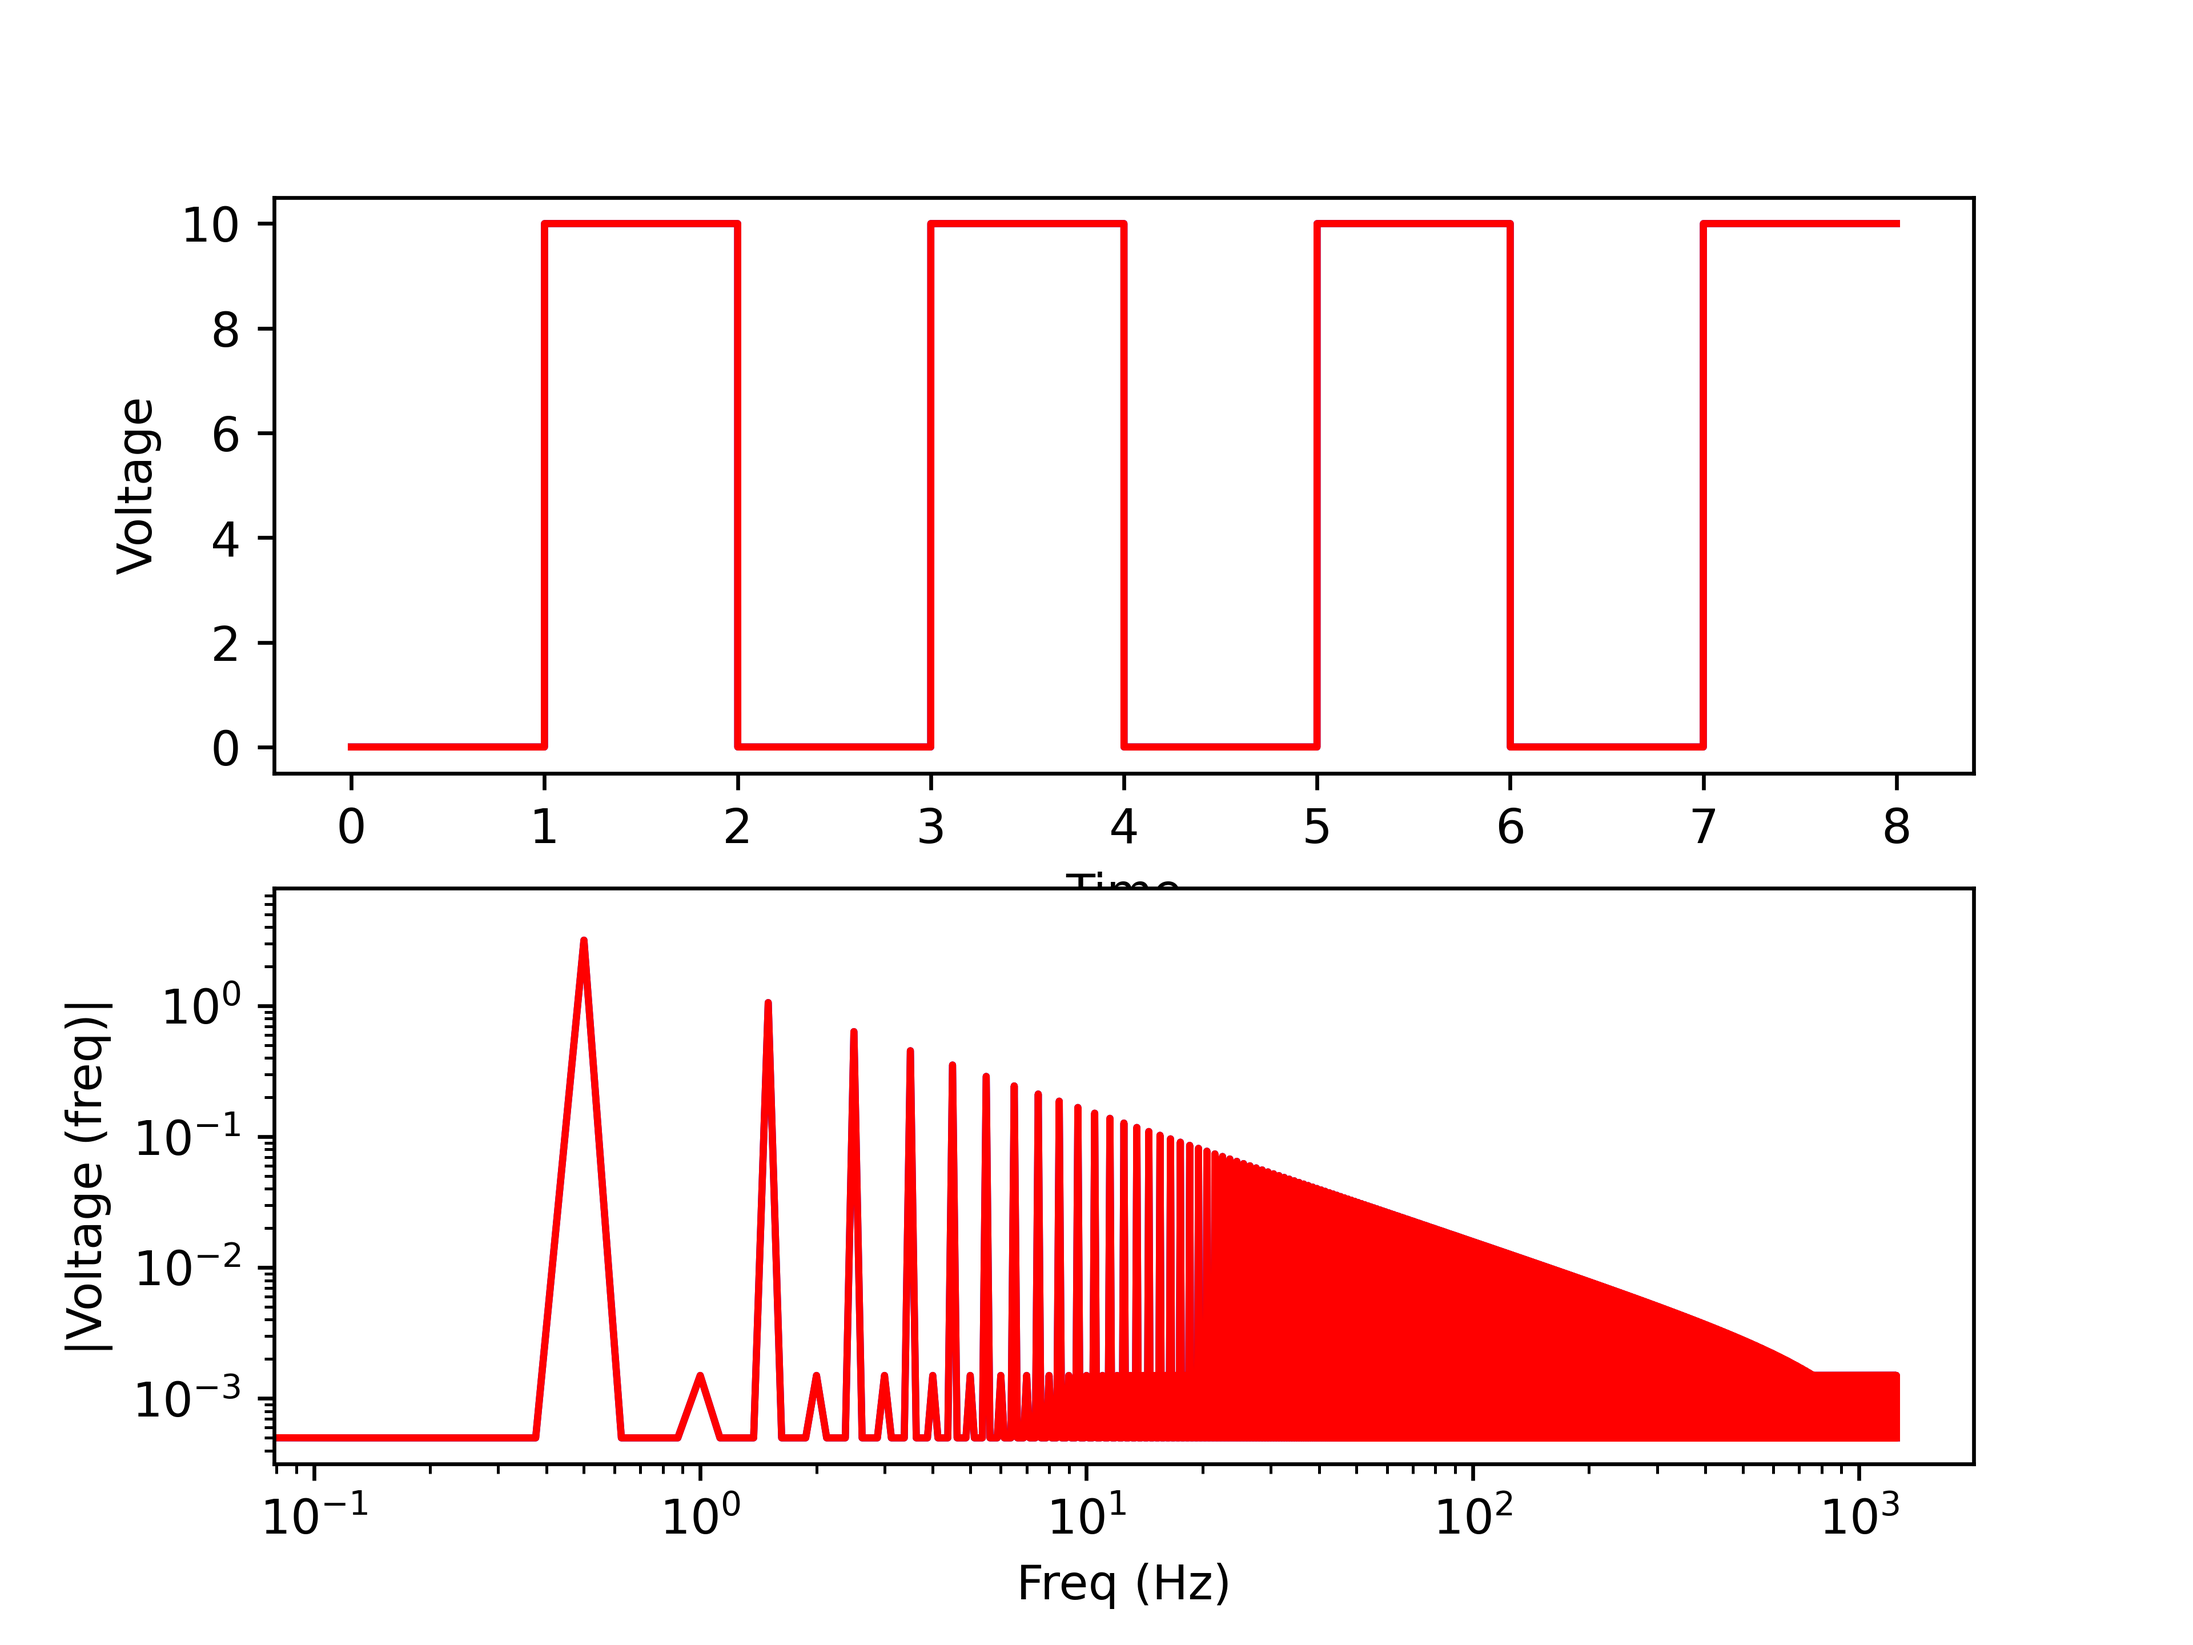
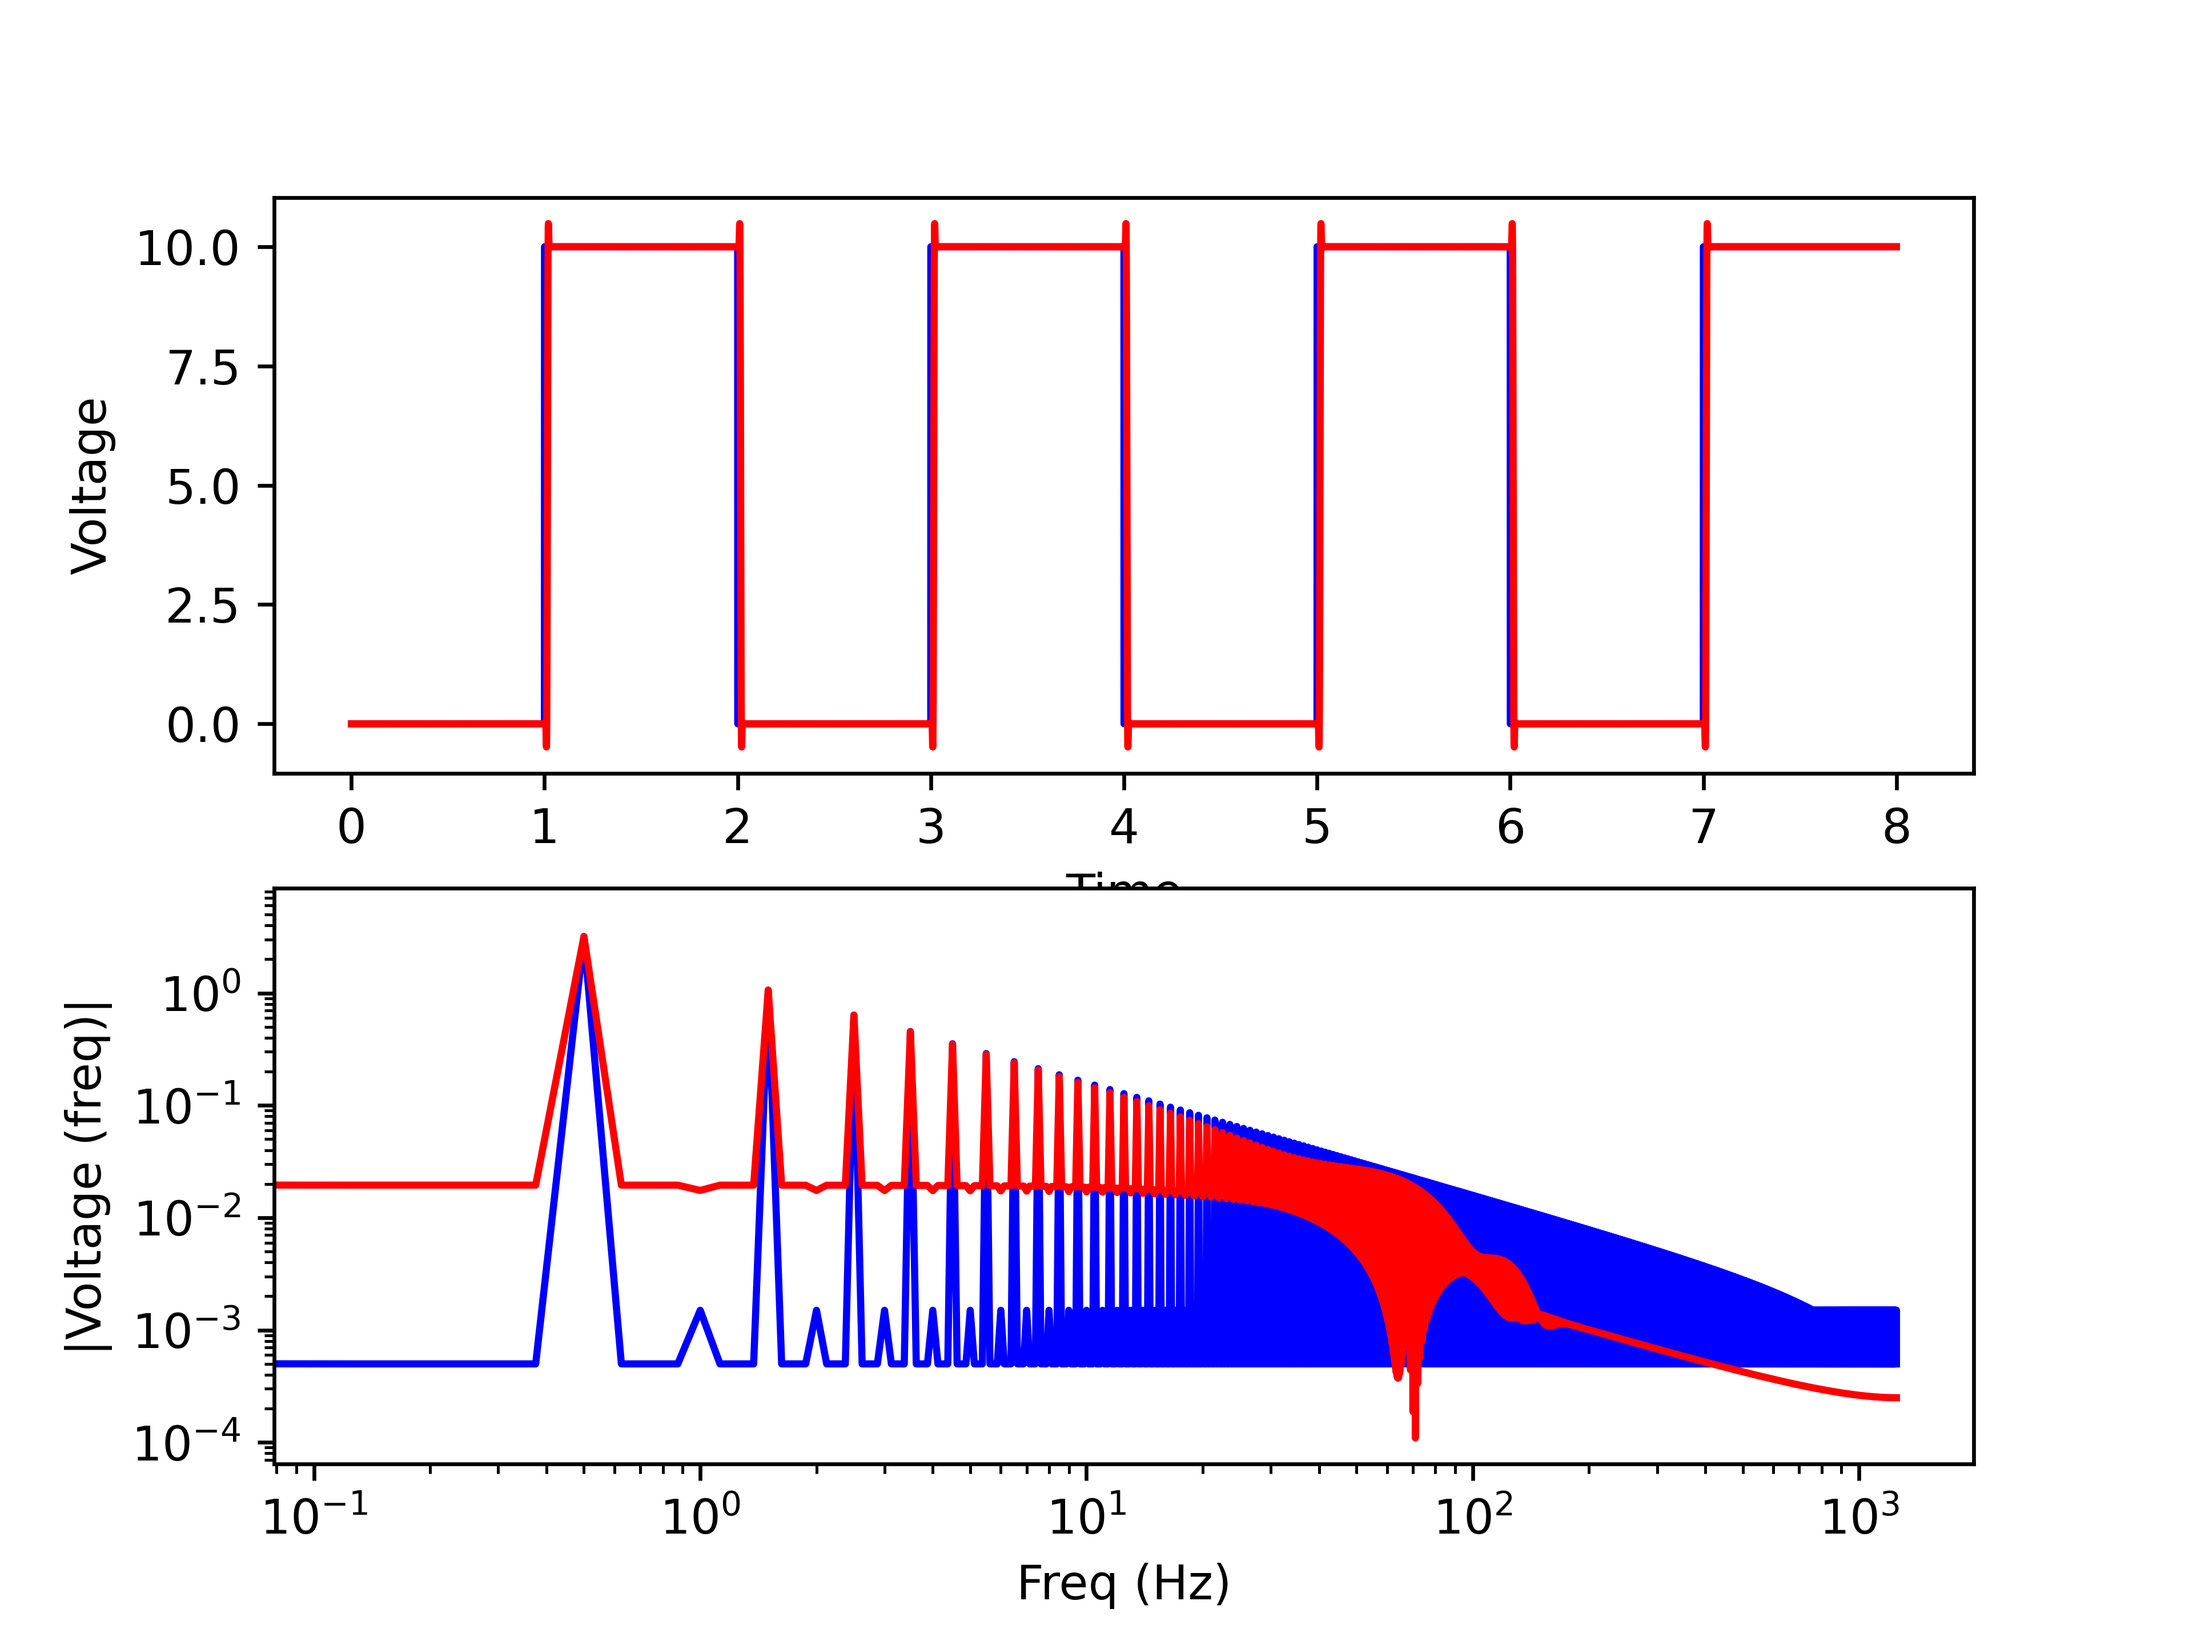
HW9 complete

diff --git a/HW9 (DSP)/ASenHW9.py b/HW9 (DSP)/ASenHW9.py
@@ -110,26 +110,51 @@ def IIR(time, voltage, samplerate):
     return filteredDict
 
 def FIR(time, voltage, samplerate):
-    coeff = np.asarray([
-    0.000000000000000001,
-    0.000000000000000000,
-    0.007547431801023270,
-    0.042585440018680441,
-    0.118362472993097156,
-    0.207383152768586154,
-    0.248243004837225778,
-    0.207383152768586154,
-    0.118362472993097212,
-    0.042585440018680462,
-    0.007547431801023270,
-    0.000000000000000000,
-    0.000000000000000001])
+    h = [
+    -0.000000000000000001,
+    0.000153658410422764,
+    0.000649144906776042,
+    0.001565506404196108,
+    0.003011200887525600,
+    0.005109183239820784,
+    0.007976171834780882,
+    0.011698866728033030,
+    0.016310538213988885,
+    0.021771577196705527,
+    0.027957254599326069,
+    0.034655108617965162,
+    0.041573169897687758,
+    0.048358807015575329,
+    0.054626524438085376,
+    0.059991776076165751,
+    0.064106951376904919,
+    0.066695280805697255,
+    0.067578558700685201,
+    0.066695280805697255,
+    0.064106951376904919,
+    0.059991776076165765,
+    0.054626524438085404,
+    0.048358807015575336,
+    0.041573169897687778,
+    0.034655108617965162,
+    0.027957254599326069,
+    0.021771577196705538,
+    0.016310538213988899,
+    0.011698866728033023,
+    0.007976171834780900,
+    0.005109183239820785,
+    0.003011200887525603,
+    0.001565506404196107,
+    0.000649144906776043,
+    0.000153658410422764,
+    -0.000000000000000001]
+    coeff = np.asarray(h)
     X = len(coeff)
     i = 0
     filteredV = []
     filteredV += ([0] * (X-1)) # sets the first X-1 items to 0 so that t and V array shapes are the same for plotting
     while i < len(voltage) - X + 1:
-        window_average = np.asarray(voltage[i:i+X])*coeff
+        window_average = np.sum(np.asarray(voltage[i:i+X])*coeff)
         filteredV.append(window_average)
         i += 1
 
@@ -137,4 +162,4 @@ def FIR(time, voltage, samplerate):
     filteredDict = {'time': time, 'voltage': filteredV, 'freq': f, 'FTvolt': fftV}
     return filteredDict
 
-FFTplot('sigA.csv', 'FIR')
+FFTplot('sigD.csv', 'FIR')
